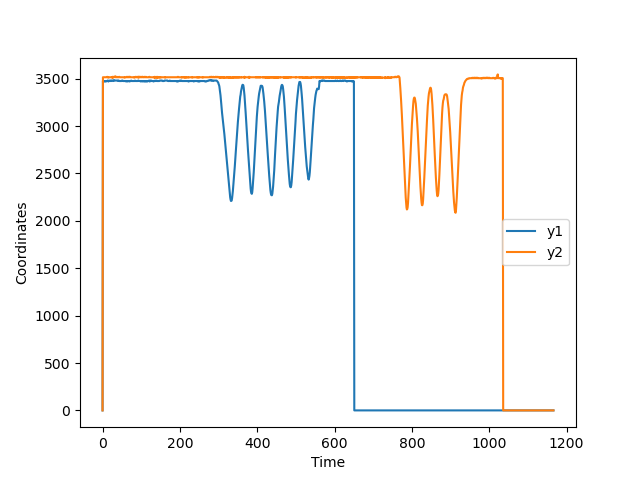
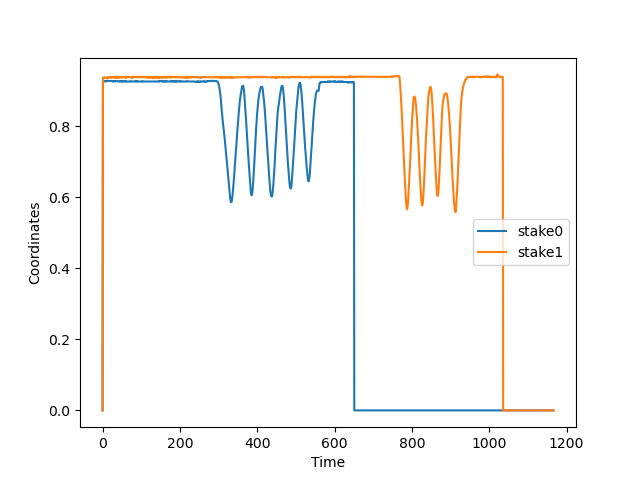
touching up functional approach to float to video script/function

diff --git a/floats_video_to_waveforms_06_12_2024.py b/floats_video_to_waveforms_06_12_2024.py
@@ -4,7 +4,7 @@ import matplotlib.pyplot as plt
 
 
 def floats_video_to_waveform(rectified_video_path, ppm, num_stakes, 
-                             arr_out_path = 'wave_measurements.npz',
+                             arr_out_path = 'wave_measurements.npy',
                              graph_out_path = 'position_graphs.png'):
     # Load the video
     cap = cv2.VideoCapture(rectified_video_path)
@@ -32,7 +32,7 @@ def floats_video_to_waveform(rectified_video_path, ppm, num_stakes,
         if not ret:
             break
         #get current frame number:
-        current_frame = int(cap.get(cv2.CAP_PROP_POS_FRAMES))
+        current_frame = int(cap.get(cv2.CAP_PROP_POS_FRAMES))-1
         # Update each tracker
         for i,tracker in enumerate(trackers):
             ret, roi = tracker.update(frame)
@@ -44,14 +44,16 @@ def floats_video_to_waveform(rectified_video_path, ppm, num_stakes,
                 #record the positoin of the center of the box 
                 center_x = x + w // 2
                 center_y = y + h // 2
-                position[current_frame-1,i] = [center_x,center_y]
+                position[current_frame,i] = [center_x,center_y]
             else:
                 '''Tracking failure
-                when tracking failure occurs, we search for objects similar to the one we have been tracking
-                we do this in a vertical column around where we lost the object since we are really only concerned 
-                with that type of movement'''
+                when tracking failure occurs, we search for objects similar 
+                to the one we have been tracking we do this in a vertical 
+                column around where we lost the object since we are really 
+                only concerned with that type of movement'''
 
-                cv2.putText(frame, "Tracking failure detected", (100, 80), cv2.FONT_HERSHEY_SIMPLEX, 0.75, (0, 0, 255), 2)
+                cv2.putText(frame, "Tracking failure detected", (100, 80), 
+                            cv2.FONT_HERSHEY_SIMPLEX, 0.75, (0, 0, 255), 2)
 
         # Display the resulting frame
         cv2.imshow('Tracking', frame)
@@ -67,15 +69,11 @@ def floats_video_to_waveform(rectified_video_path, ppm, num_stakes,
     #convert position to real units: 
     position = position/ppm
 
-
-    # Extract x and y coordinates from the position data
-    x = position[:,0,1]
-    y = position[:,1,1]
-
-    # Plot the x and y coordinates through time
+    # Plot the y coordinates through time
     fig = plt.figure()
-    plt.plot(x, label='y1')
-    plt.plot(y, label='y2')
+    for i in range(num_stakes):
+        name = 'stake'+str(i)
+        plt.plot(position[:,i,1],label = name)
     plt.xlabel('Time')
     plt.ylabel('Coordinates')
     plt.legend()
@@ -84,4 +82,4 @@ def floats_video_to_waveform(rectified_video_path, ppm, num_stakes,
     np.save(arr_out_path,position)
 
 if __name__ == '__main__':
-    floats_video_to_waveform('videos/noodle_float_move_rect.mp4',0.2,2)
+    floats_video_to_waveform('videos/noodle_float_move_rect.mp4',750,2)

diff --git a/orthorec_06_03_2024.py b/orthorec_06_03_2024.py
@@ -382,7 +382,7 @@ if __name__ == '__main__':
 
     threshold_condition = lambda x: np.sum(x,axis=1)<300
 
-    rectify_video_by_gradation('gp1080p_noodle_float_move.MP4', 'noodle_float_move_rect.mp4',threshold_condition)
+    rectify_video_by_gradation('videos/noodle_float_move_rect.mp4', 'noodle_float_move_rect.mp4',threshold_condition)
     
 
 
